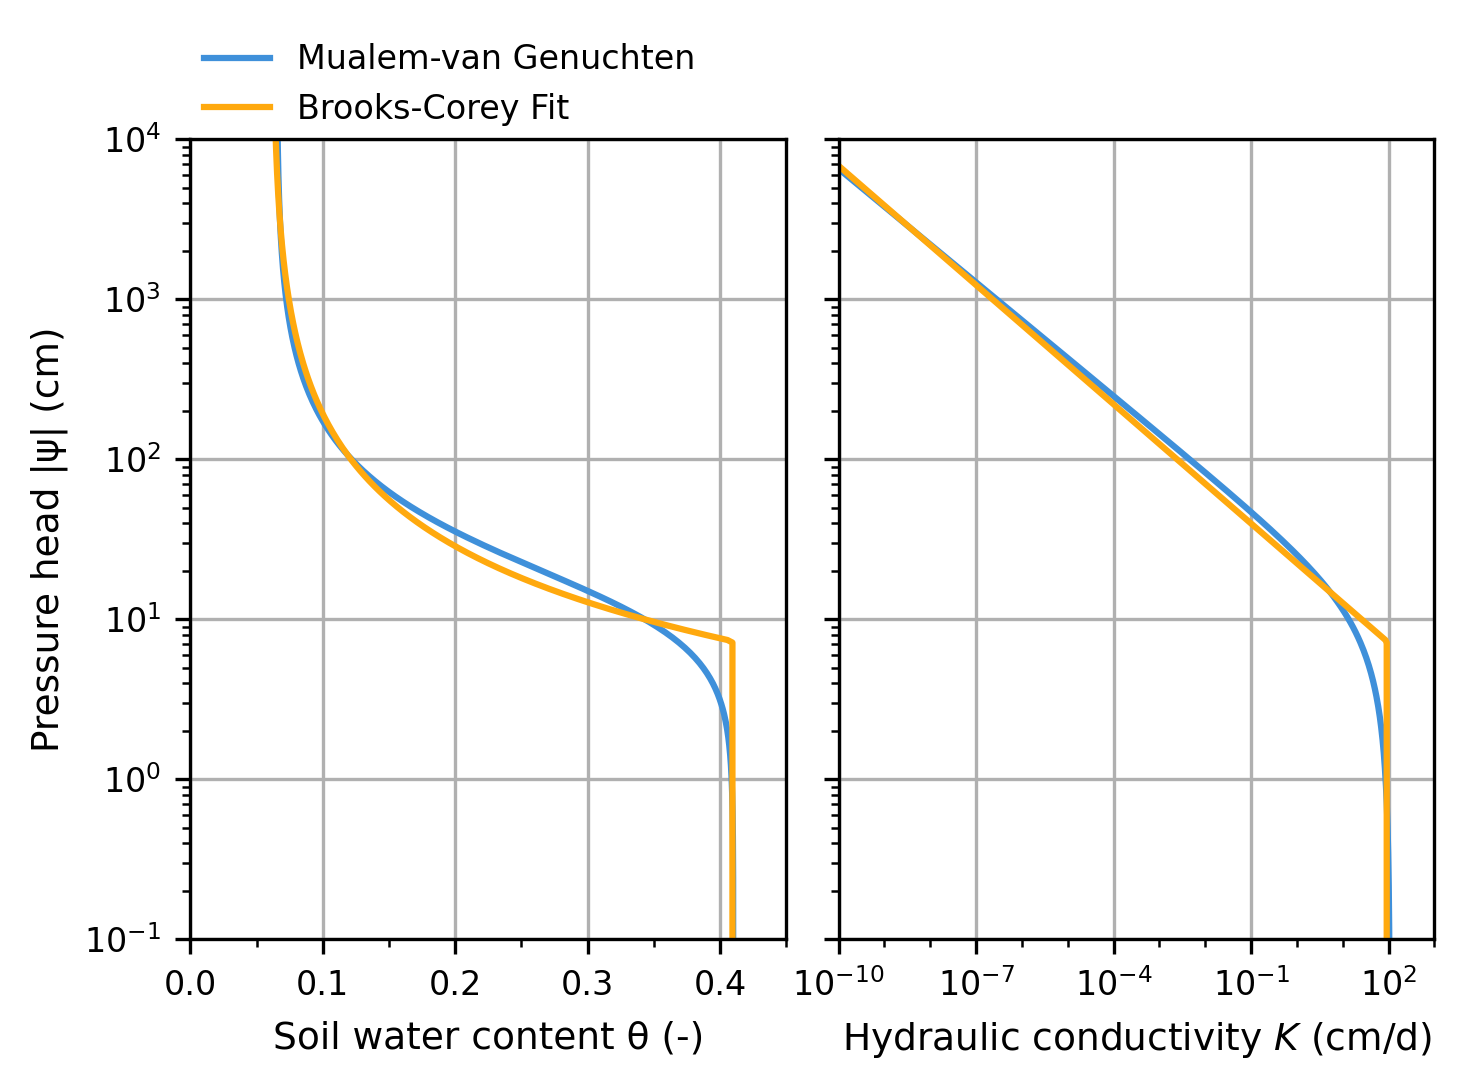
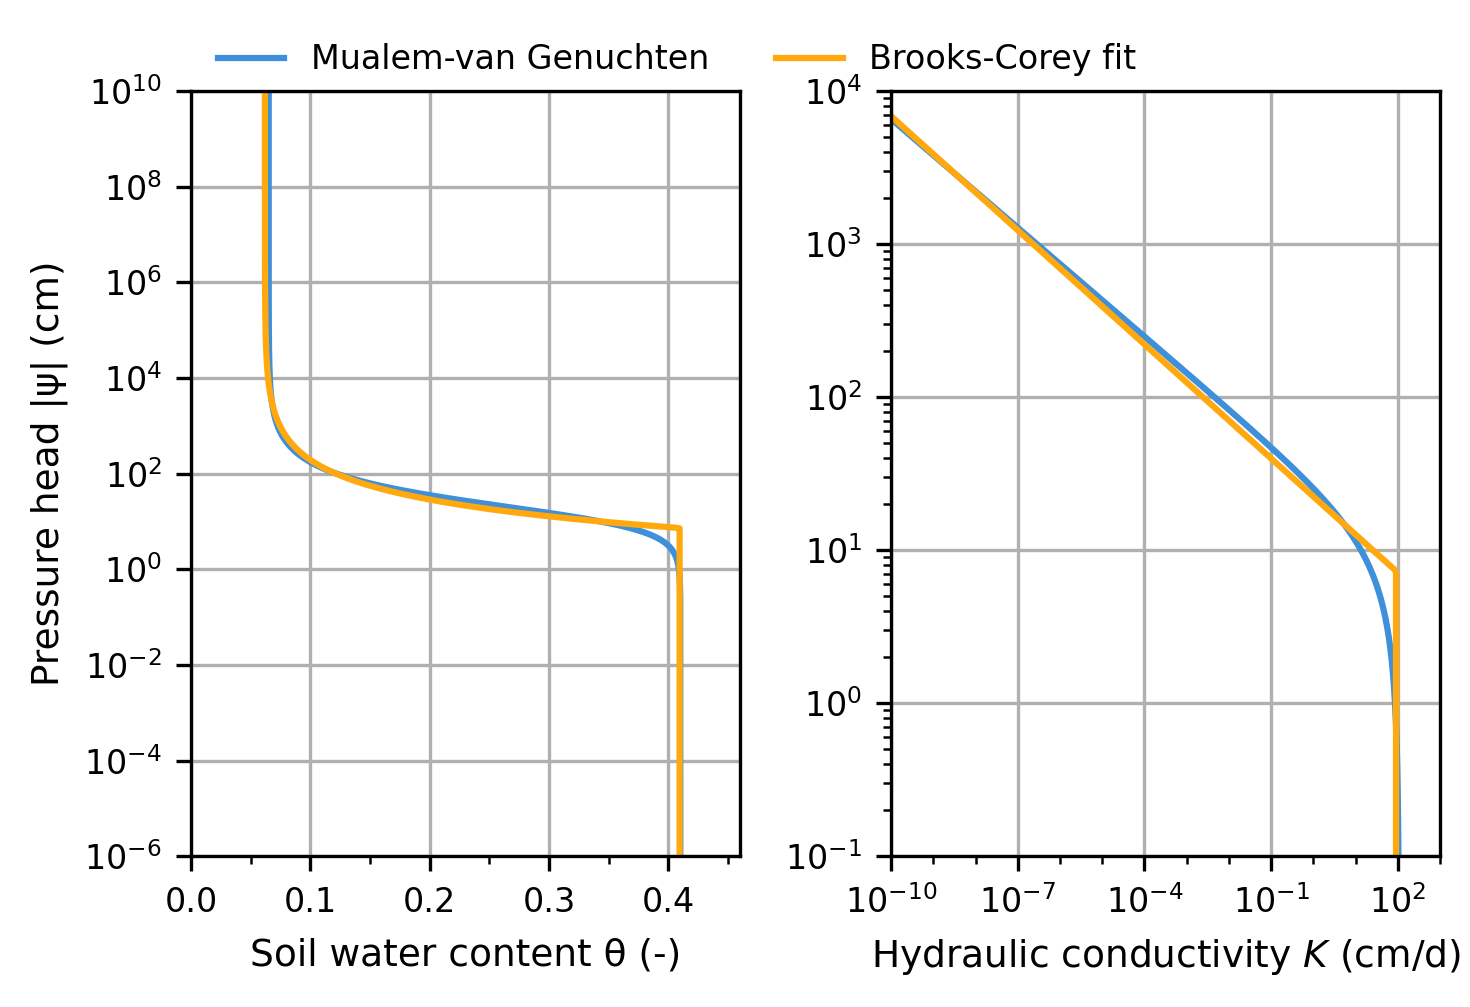
two more figs

diff --git a/paper/paper.md b/paper/paper.md
@@ -90,11 +90,13 @@ clapp = pe.Soil("Sand").from_name(pe.Campbell, source="Clapp")
 rawls = pe.Soil("Sand").from_name(pe.Brooks, source="Rawls")
 ```
 
+![Comparison of SWRC's for a generic sandy soil using parameters retrieved from four different soil databases. \label{fig:dataset_swrc}](figures/dataset_swrc.png)
+
 ## Parameter estimation
 `pedon` provides two approaches for obtaining soil model parameters from soil measurements. The first uses pedotransfer functions based on easily measured soil properties. The second relies on direct measurements of soil water content and hydraulic conductivity.
 
 ### Pedotransfer functions
-Pedotransfer functions relate easily measured soil properties (e.g. sand, silt, clay or organic matter content and bulk density) to soil model parameters [@bouma_pedotransfer_1989; @looy_pedotransfer_2017]. pedon implements a comprehensive suite of pedotransfer functions from the literature, including those of @cosby_pedotransfer_1984, @cooper_pedotransfer_2021, @saxton_pedotransfer_1986, @saxton_pedotransfer_2006, @vereecken_pedotransfer_1989,  @vereecken_pedotransfer_1990, @wosten_pedotransfer_1999, Rosetta [@schaap_rosetta_2001; @zhang_rosetta3_2017], @wosten_staringreeks_2001, @hodnett_pedotransfer_2002, @weynants_pedotransfer_2009, @toth_pedotransfer_2015. Furthermore, it provides access to specialized tools such as HYPAGS [@peche_hypags_2023; @peche_genuchten_2024] which enables parameter estimation from a single value of saturated hydraulic conductivity or representative grain diameters.
+Pedotransfer functions relate easily measured soil properties (e.g. sand, silt, clay or organic matter content and bulk density) to soil model parameters [@bouma_pedotransfer_1989; @looy_pedotransfer_2017]. `pedon` implements a comprehensive suite of pedotransfer functions from the literature, including those of @cosby_pedotransfer_1984, @cooper_pedotransfer_2021, @saxton_pedotransfer_1986, @saxton_pedotransfer_2006, @rawls_pedotransfer_1989, @vereecken_pedotransfer_1989,  @vereecken_pedotransfer_1990, @wosten_pedotransfer_1999, Rosetta [@schaap_rosetta_2001; @zhang_rosetta3_2017], @wosten_staringreeks_2001, @hodnett_pedotransfer_2002, @weynants_pedotransfer_2009, @toth_pedotransfer_2015. The code snippet below shows how to apply three different pedotransfer functions to the same soil sample, resulting in different parameter estimates and thus SWRCs' (Figure \ref{fig:ptf_swrc}).
 
 ```python
 # Create a soil sample with easily measured properties. Note that
@@ -117,7 +119,13 @@ rosetta: pe.Genuchten = ss.rosetta(version=3)
 
 # Estimate Brooks-Corey parameters using Saxton
 saxton: pe.Brooks = ss.saxton()
+```
 
+![Estimated SWRC's for a single user-defined soil sample using three different pedotransfer functions \label{fig:ptf_swrc}](figures/ptf_swrc.png)
+
+Furthermore, `pedon` provides access to specialized tools such as HYPAGS [@peche_hypags_2023; @peche_genuchten_2024] which enables parameter estimation from a single value of saturated hydraulic conductivity or representative grain diameters.
+
+```python
 # Estimate parameters using HYPAGS
 ks = 1e-3  # saturated hydraulic conductivity (m/s)
 hypags: pe.Genuchten = pe.SoilSample(k=ks).hypags()
@@ -127,14 +135,14 @@ hypags: pe.Genuchten = pe.SoilSample(k=ks).hypags()
 `pedon` can estimate soil model parameters directly when measurements of soil water retention and/or unsaturated hydraulic conductivity are available. A soil model, together with its SWRC and HCF, is fitted to the data by minimizing the difference between measured and simulated values. This uses a nonlinear least-squares algorithm from SciPy [@scipy_paper_2020] and follows the well-established methodology of the `RETC` software [@genuchten_retc_1991].
 
 ### Soil model conversion
-The same fitting procedure can translate between soil models. The SWRC and HCF generated by one model are sampled over a range of pressure heads and refitted using another formulation. This enables direct model comparison (Figure \ref{fig:swrc_fit}) and facilitates integration with external tools when a different soil model is required [@vonk_nonlinear_2024].
+The same fitting procedure can translate between soil models. The SWRC and HCF generated by one model are sampled over a range of pressure heads and refitted using another formulation. This enables direct model comparison (Figure \ref{fig:fit_swrc_hcf}) and facilitates integration with external tools when a different soil model is required [@vonk_nonlinear_2024].
 
 ```python
 # Fitting a Brooks-Corey soil model to existing Mualem-van Genuchten soil model
 bc = pe.SoilSample(h=h, theta=theta, k=k).fit(pe.Brooks)
 ```
 
-![Resulting Brooks-Corey SWRC and HCF after fitting on the Mualem-van Genuchten (`mg`) soil model \label{fig:swrc_fit}](figures/fit_swrc_hcf.png){height=5.0cm}
+![Resulting Brooks-Corey SWRC and HCF after fitting on the Mualem-van Genuchten soil model \label{fig:fit_swrc_hcf}](figures/fit_swrc_hcf.png)
 
 # State of the field
 `pedon` contributes to the field of groundwater modeling by providing a modular, object-oriented framework that integrates hydraulic soil models, established parameter databases, and pedotransfer functions into a single, reproducible workflow. Existing tools such as unsatfit [@seki_unsatfit_2023], PySWR [@memari_pyswr_2021], and RETC [@genuchten_retc_1991] are utilities primarily focused on least-squares fitting of predefined soil models. In contrast, `pedon` enables researchers to define custom soil model formulations and systematically evaluate them against different datasets and pedotransfer functions. This level of interoperability is unique and provides a broader framework for the analysis of unsaturated soil hydraulic properties. At the same time, `pedon` is developed with a collaborative mindset, exemplified by the integration and extension of the soil model parameter estimation algorithms from HYPAGS [@peche_hypags_2023; @peche_genuchten_2024].